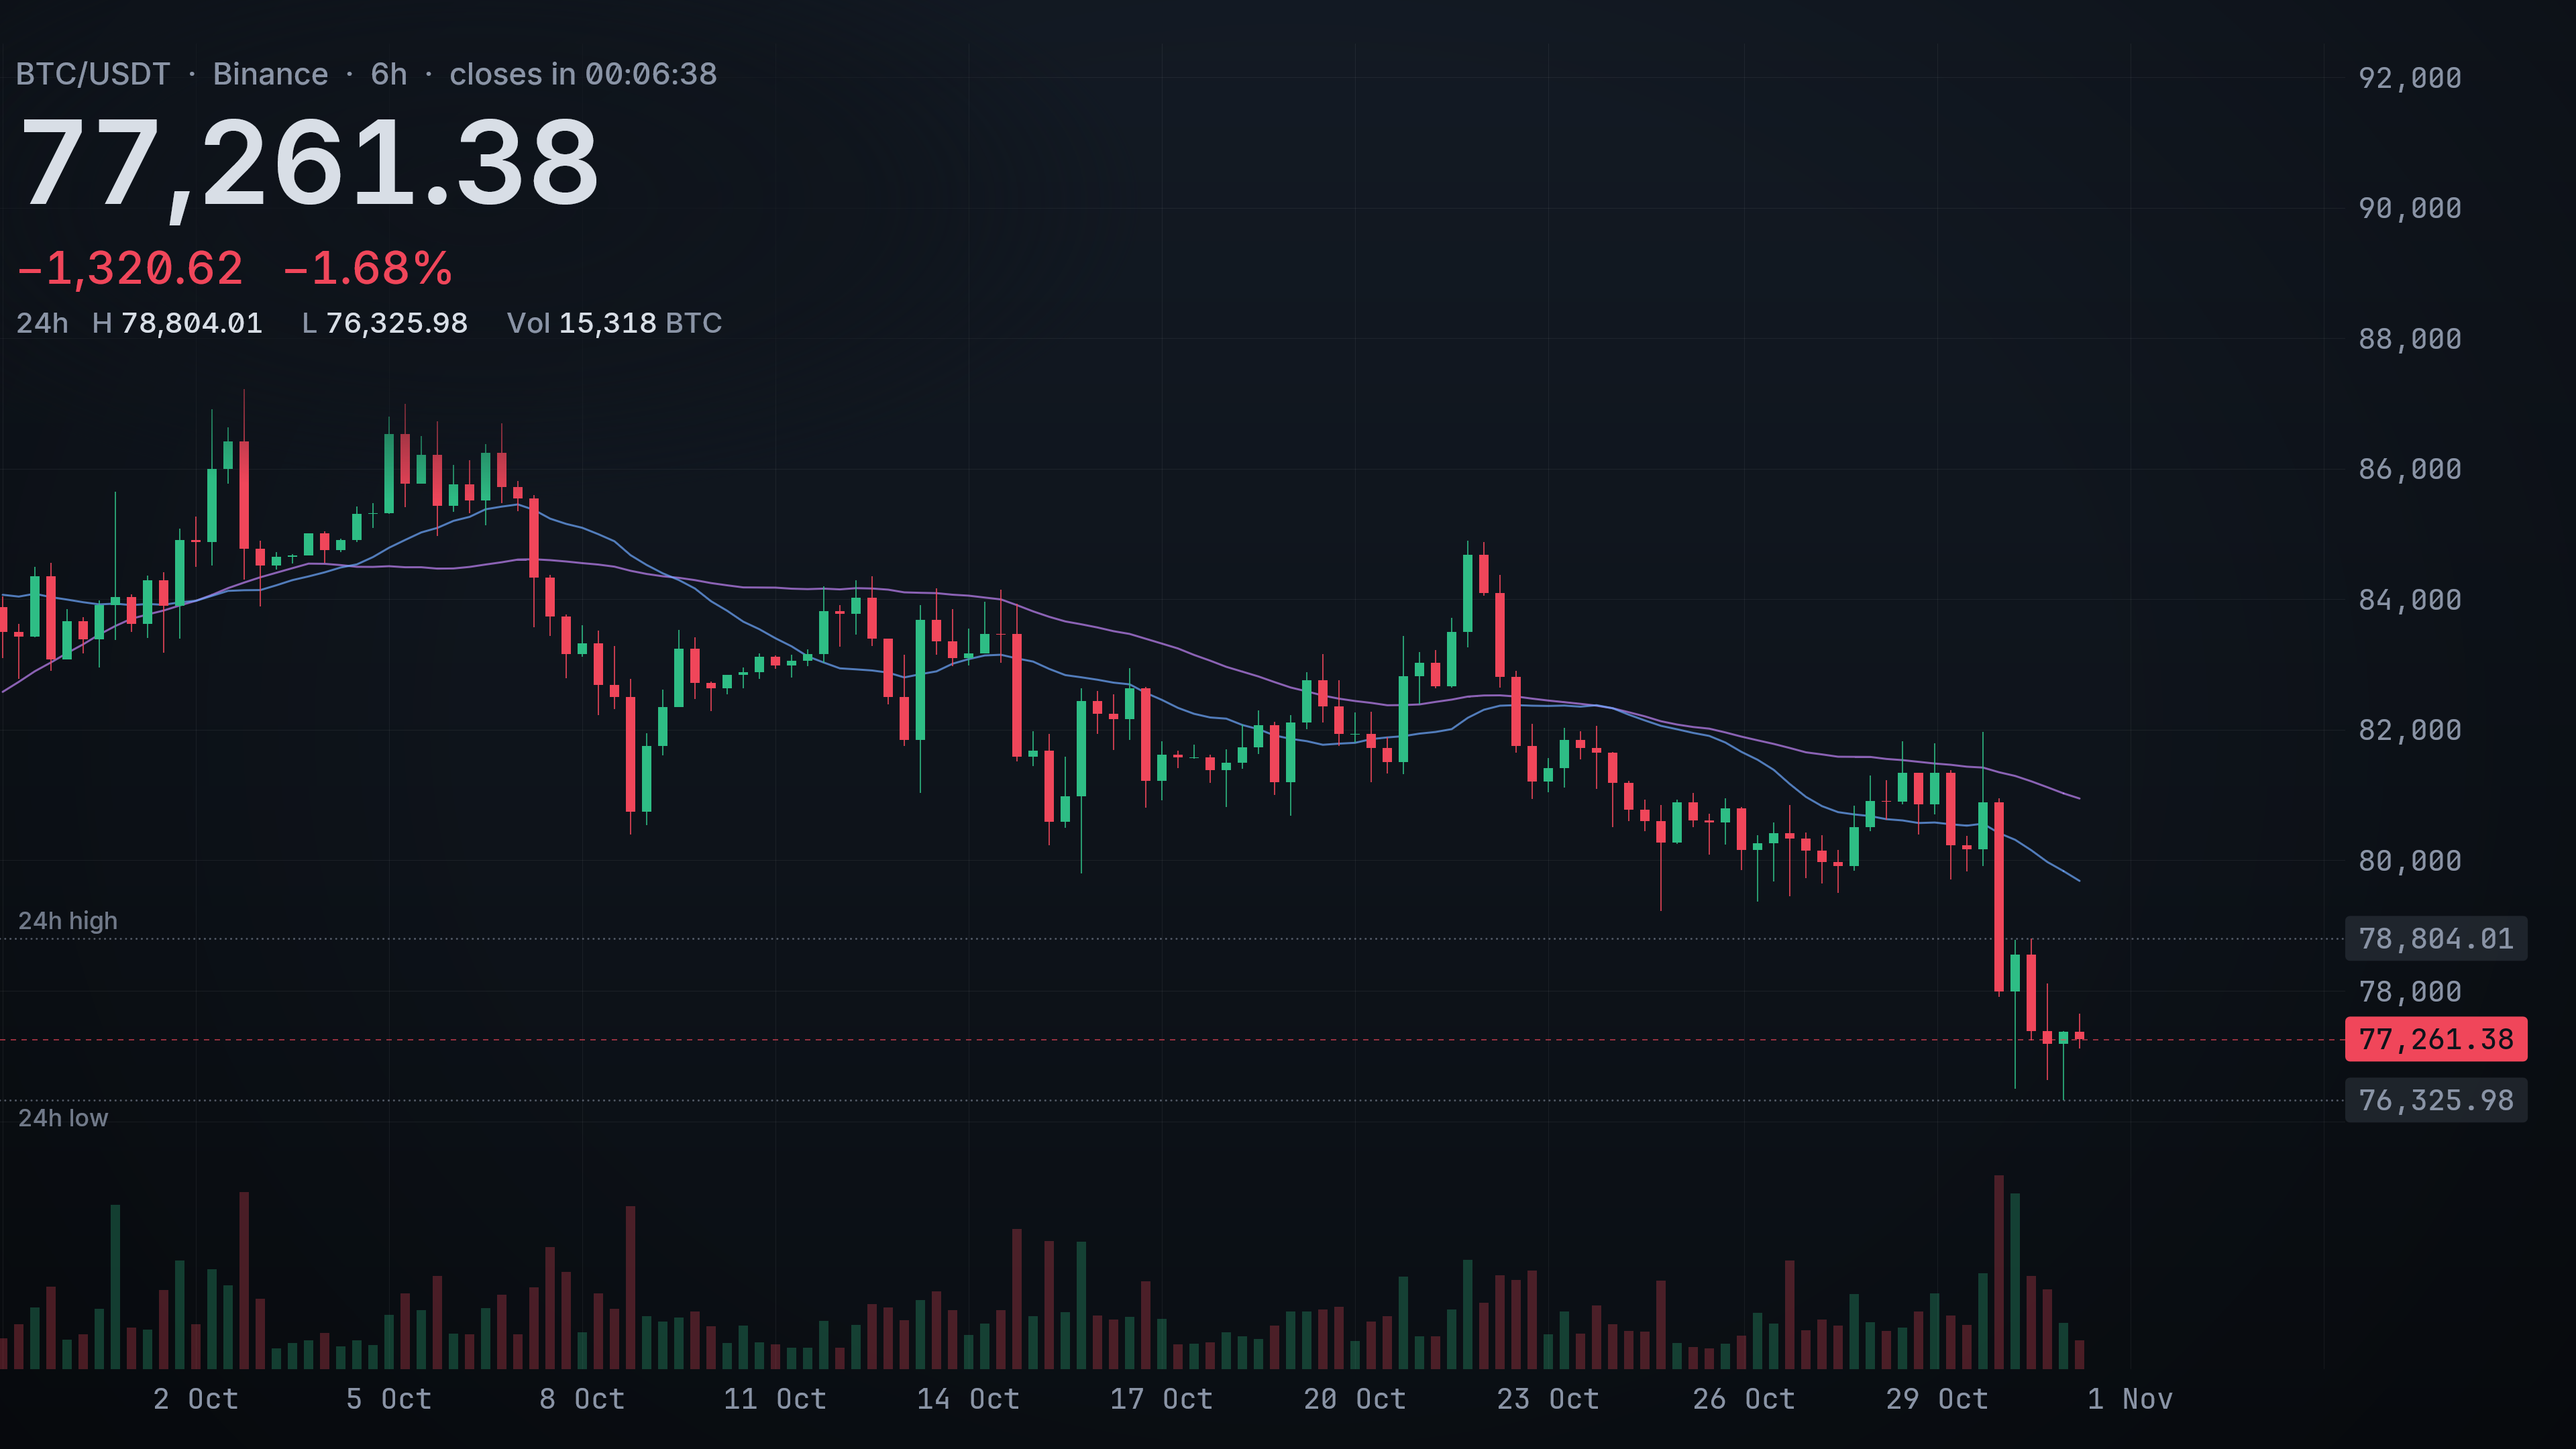
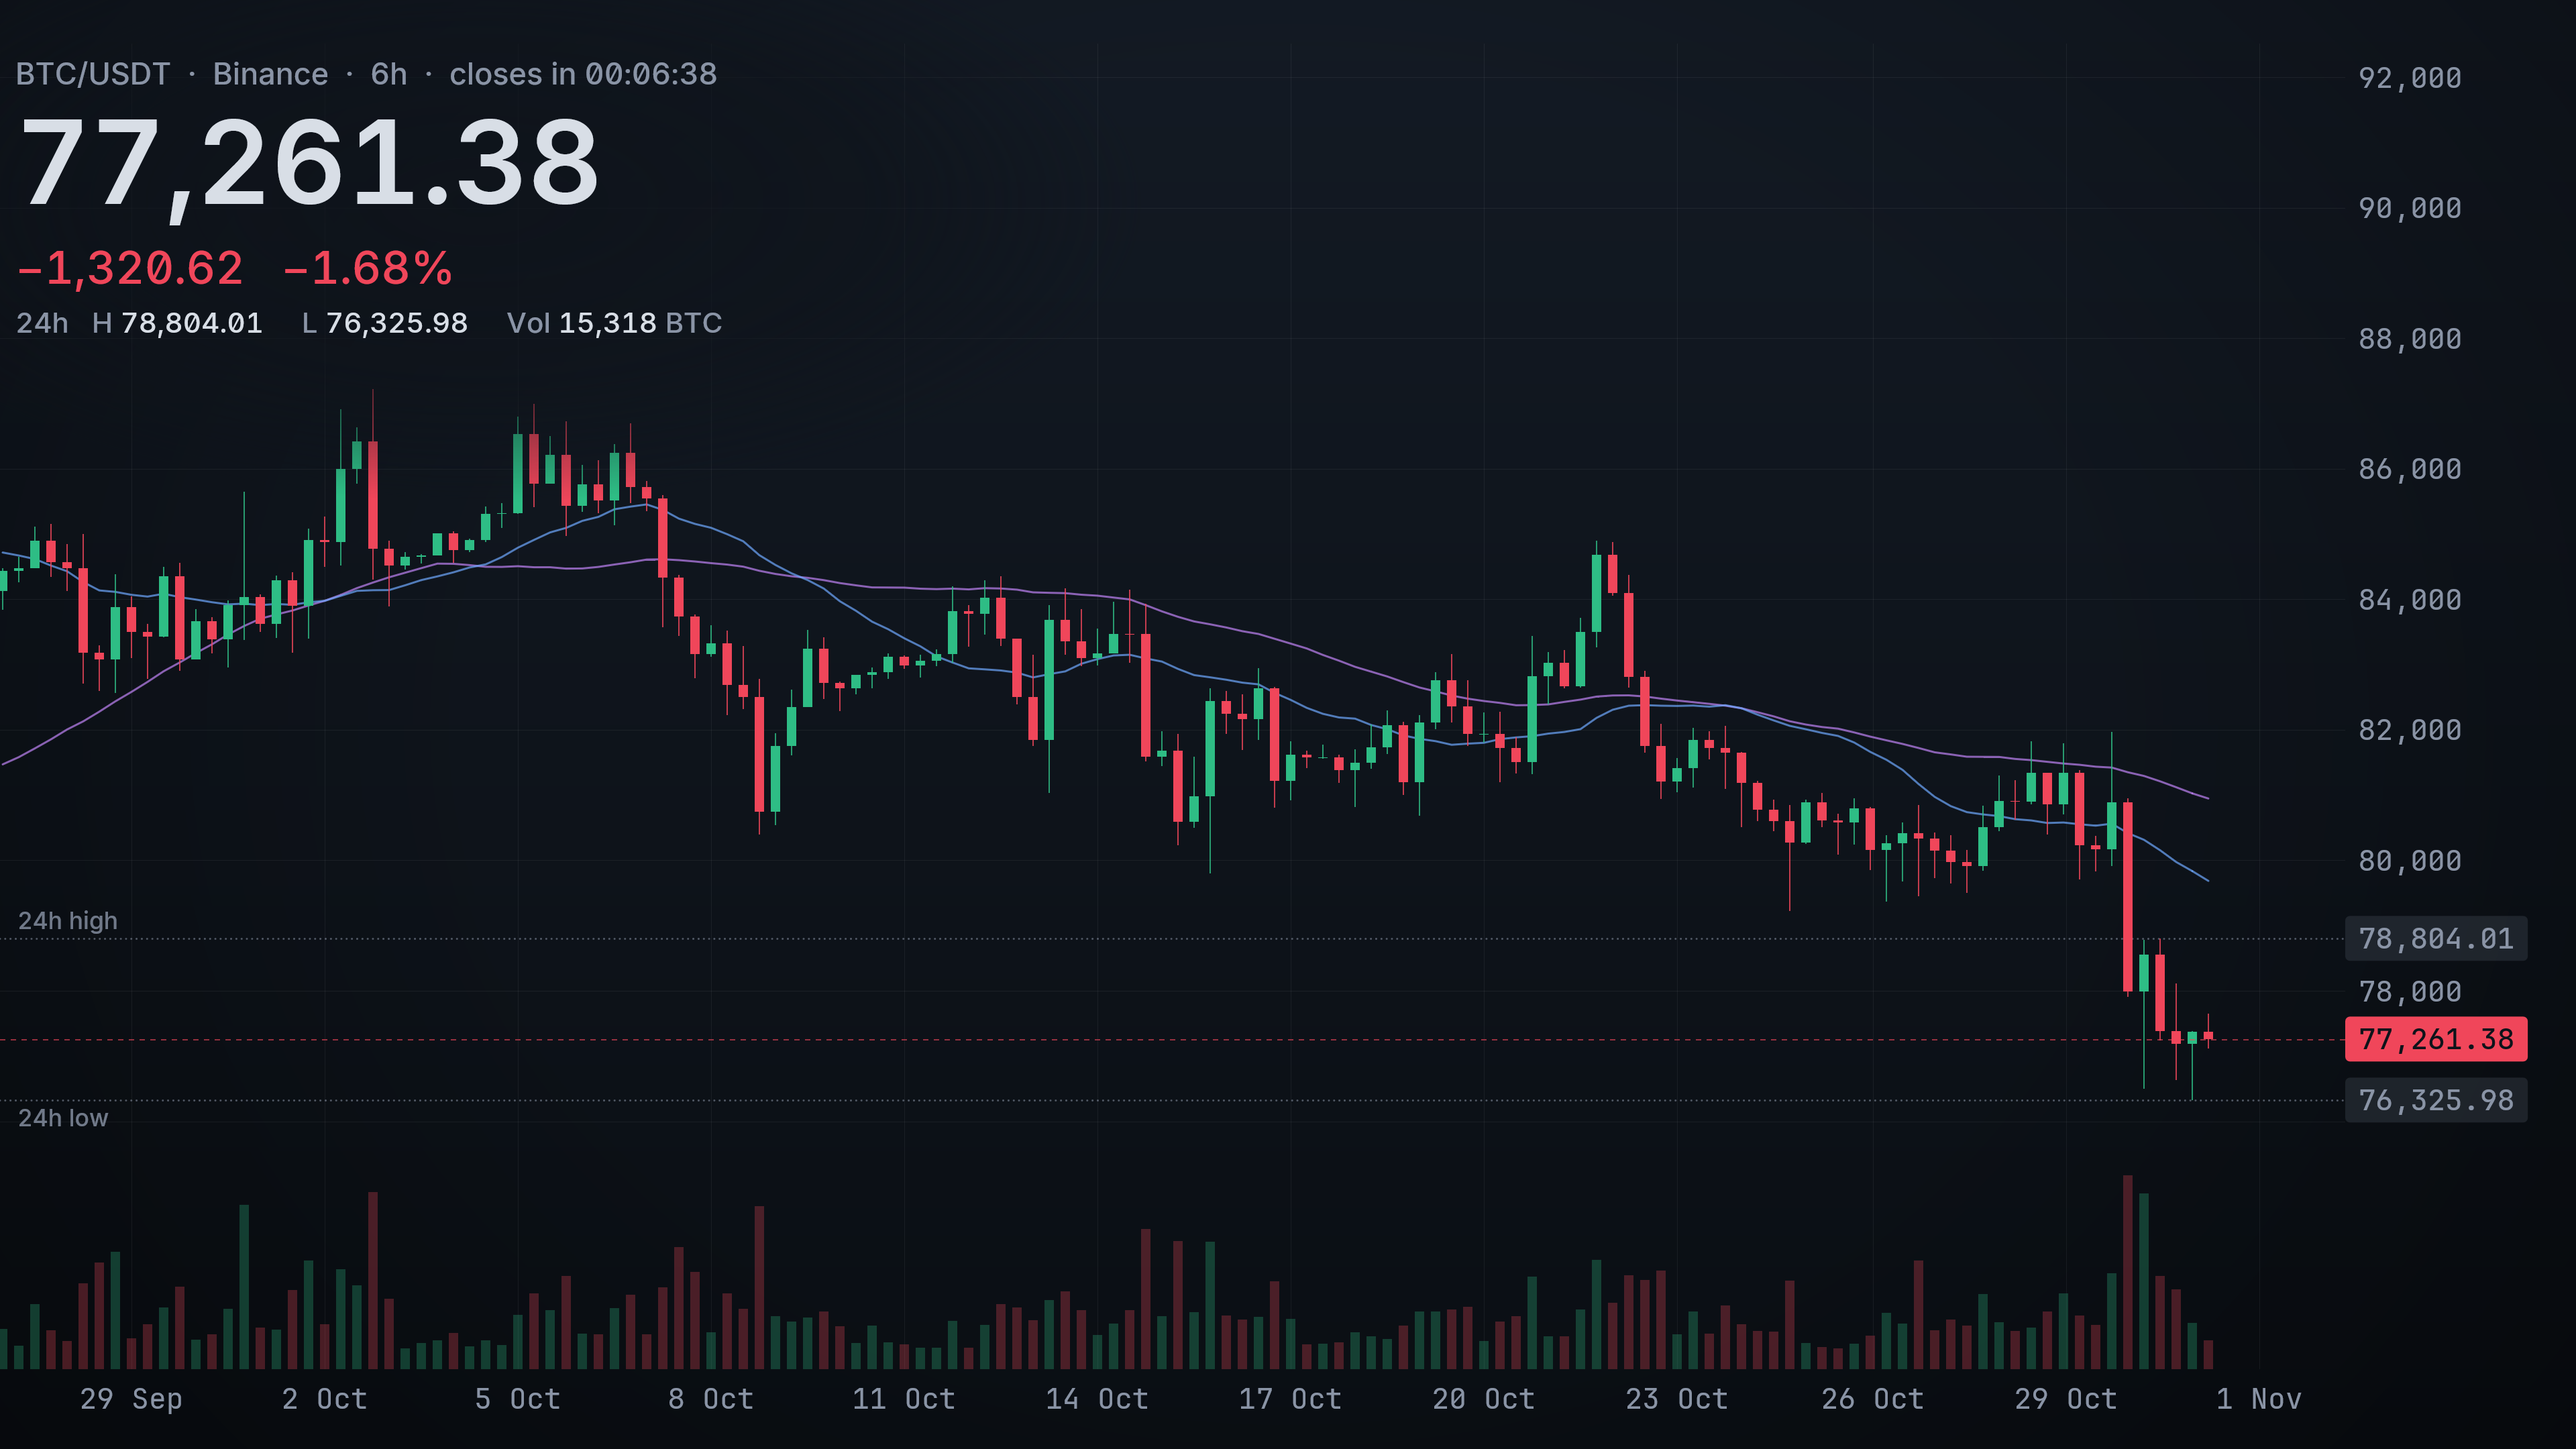
fix: right offset back to 8 bars, D-30 as corrected by the owner (#18)
Goldens and docs/mockups regenerated from the recorded live snapshot: desk 297 x 4h (about 49 days), TV 137 x 6h.

Changed region(s): [[0.0, 0.2792, 0.8438, 0.7444], [0.0, 0.8065, 0.875, 0.9926], [0.4375, 0.9616, 0.4688, 0.9926]]

diff --git a/src/Chart.Core/Layout/LayoutEngine.cs b/src/Chart.Core/Layout/LayoutEngine.cs
@@ -7,9 +7,7 @@ public static class LayoutEngine
     // The price axis keeps 1.5 % of the width from the right screen edge (D-30).
     private const double AxisRightShare = 0.985;
     private const double BodyShare = 0.62;
-
-    // Empty space between the newest candle and the price axis, as a share of the width (D-30): new candles slide in.
-    private const double RightGapShare = 0.10;
+    private const int RightOffset = 8;
 
     // Aspect ratio at or above which the headline goes top-right (32:9, 21:9); below it top-left at the left margin.
     private const double WideAspect = 2.2;
@@ -79,7 +77,7 @@ public static class LayoutEngine
             BodyWidth(pitch, wick),
             wick,
             candleCount,
-            (int)Math.Ceiling(RightGapShare * w / pitch));
+            RightOffset);
     }
 
     private static TextSizes TextFor(double h, bool tv)

diff --git a/docs/decisions.md b/docs/decisions.md
@@ -17,4 +17,4 @@ Owner's decisions. Each entry: id, date, decision.
 - **D-13** (2026-10-31) The wallpaper shows the last 30 days of history; the candle interval is chosen per screen so that 30 days fit (4-hour candles on the 5120x1440 desk monitor, 6-hour on the 3840x2160 TV); replaces D-8.
 - **D-20** (2026-10-31) The content spans the full screen width: no safe area is reserved for desktop icons.
 - **D-29** (2026-10-31) The chart fills all drawable candle slots with older history beyond the 30 days (desk ≈ 48 days at 4h); the candle pitch is unchanged. On 16:9 the headline sits at the left margin.
-- **D-30** (2026-10-31) The chart's left edge runs off the left screen edge; on the right about 10 % of the screen width stays empty between the newest candle and the price axis, so new candles appear nicely and the price is easy to read; the price axis keeps a small margin from the right edge.
+- **D-30** (2026-10-31) The chart's left edge runs off the left screen edge; on the right the candles run up to the price axis with the usual small offset of about 8 candles, and the price axis keeps a small margin from the right screen edge.
